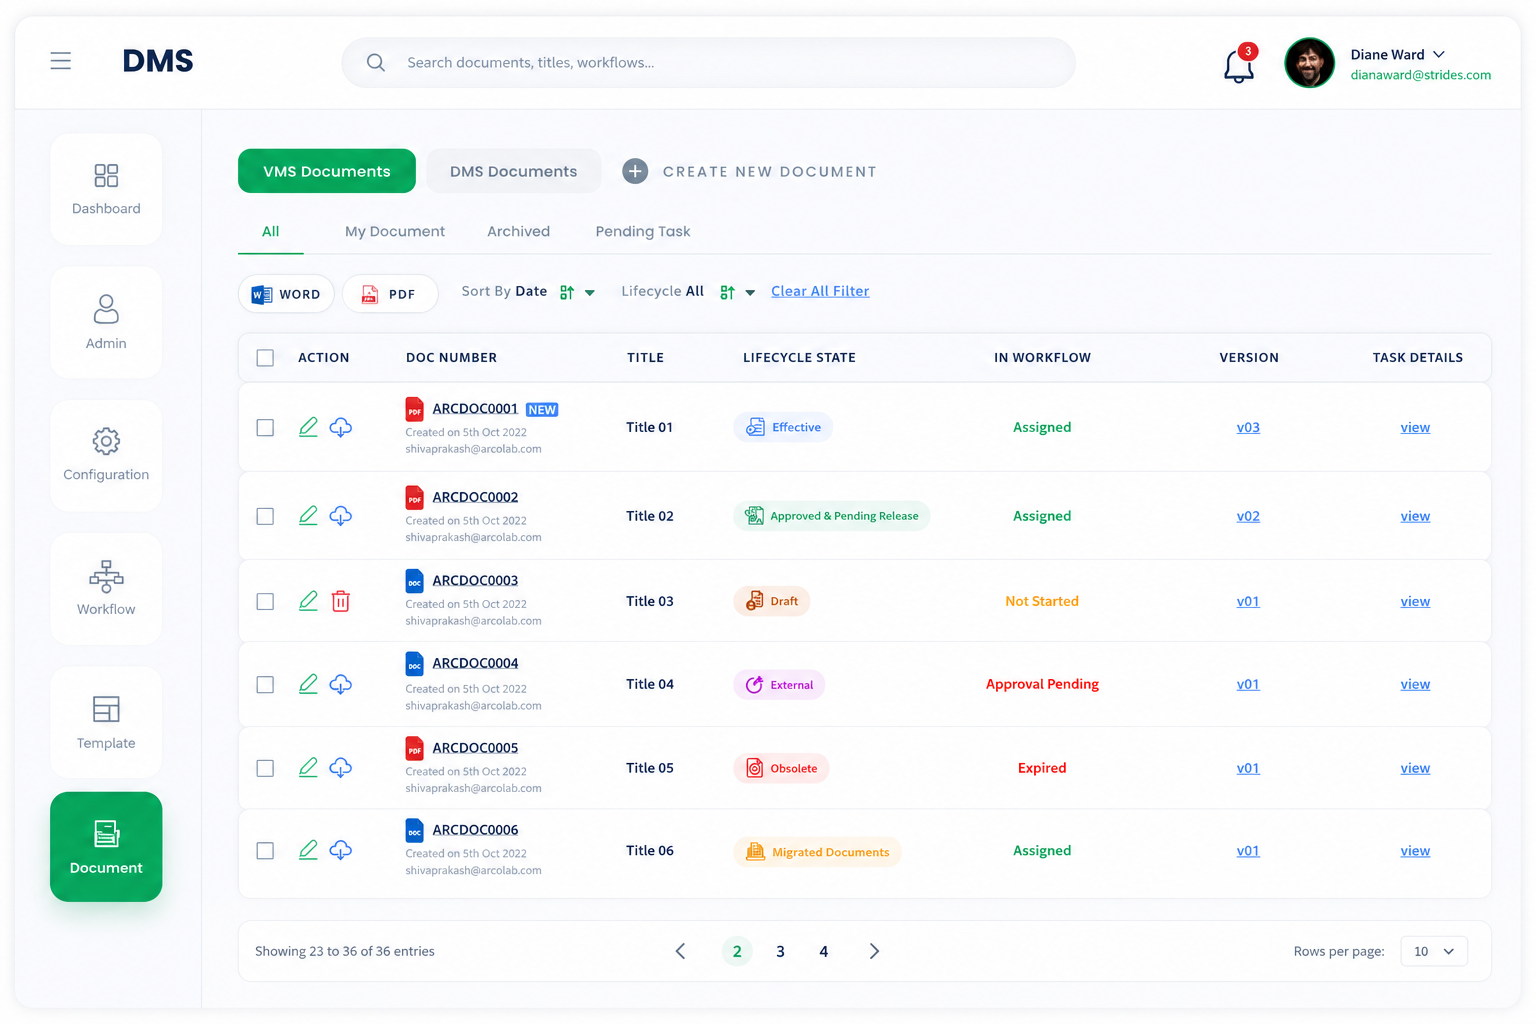
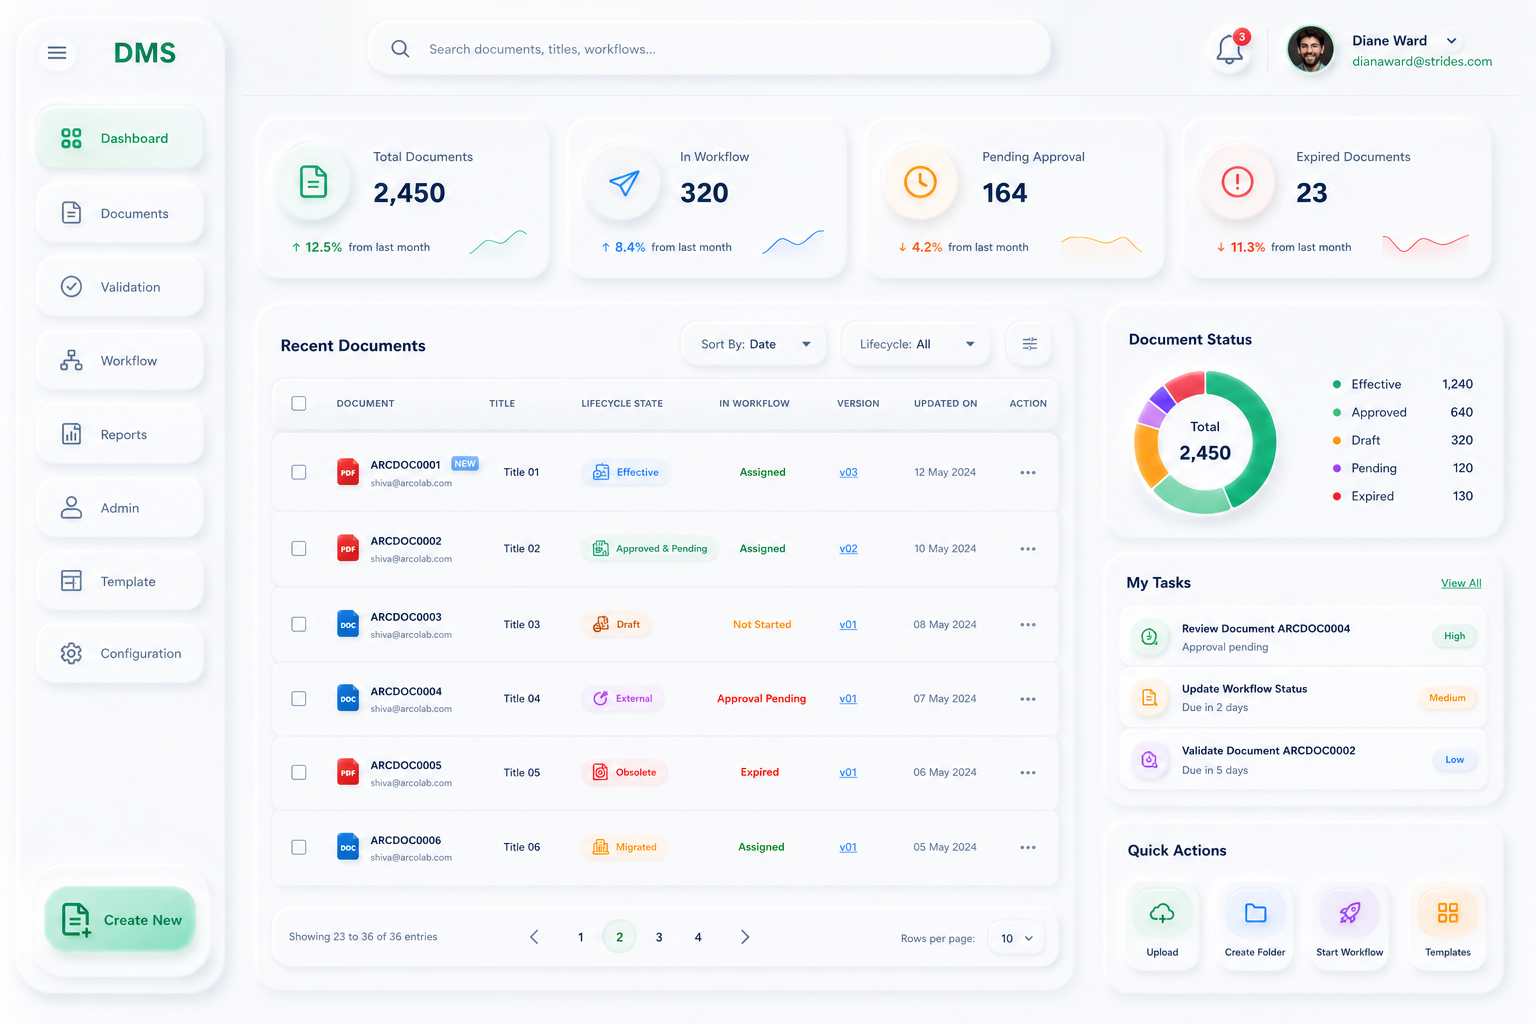
case-study-changes

diff --git a/src/lib/data.tsx b/src/lib/data.tsx
@@ -38,7 +38,7 @@ export const caseStudies: CaseStudy[] = [
     heroImage: "/images/dms-vms-login-main.png",
     previewImages: [
       "/images/dms-vms-login-main.png",
-      "/images/dms-document.png",
+      "/images/dms-documnet-ladnding-page.png",
       "/images/dms-work-flow.png",
     ],
     themeBg: "bg-gradient-to-br from-blue-700 via-blue-800 to-indigo-900",
@@ -150,74 +150,16 @@ export const caseStudies: CaseStudy[] = [
                 This diagram maps the conditional relationship between Document Management (DMS) and Validation Management (VMS) processes, showing how documents transition from draft state to verified execution.
               </p>
             </div>
-
-            {/* System Architecture Framework */}
-            <div className="my-10 overflow-hidden rounded-2xl border border-slate-200/80 bg-white shadow-[0_20px_50px_rgba(15,23,42,0.03)]">
-              <div className="flex items-center justify-between px-6 py-4 bg-slate-50 border-b border-slate-200/80">
-                <span className="text-[10px] font-bold uppercase tracking-[0.2em] text-slate-400">System Architecture Framework</span>
-                <span className="text-[10px] font-mono text-slate-400">dms-framework.png</span>
-              </div>
-              <div className="p-6 bg-slate-50/50">
-                <ZoomableImage src="/images/dms-framework.png" alt="DMS System Architecture Framework" className="w-full h-auto rounded-xl border border-slate-200/40 shadow-sm" />
-              </div>
-              <p className="px-6 py-4 border-t border-slate-100 text-sm text-slate-500 leading-relaxed bg-white">
-                This schematic maps the modular relationship between different enterprise modules, database tables, configuration engines, and access roles that structure the DMS and VMS platform.
-              </p>
-            </div>
-
-            {/* Validation Decision Tree */}
-            <div className="my-10 overflow-hidden rounded-2xl border border-slate-200/80 bg-white shadow-[0_20px_50px_rgba(15,23,42,0.03)]">
-              <div className="flex items-center justify-between px-6 py-4 bg-slate-50 border-b border-slate-200/80">
-                <span className="text-[10px] font-bold uppercase tracking-[0.2em] text-slate-400">Validation Decision Tree</span>
-                <span className="text-[10px] font-mono text-slate-400">dms-decision-tree.png</span>
-              </div>
-              <div className="p-6 bg-slate-50/50">
-                <ZoomableImage src="/images/dms-decision-tree.png" alt="DMS Validation Decision Tree" className="w-full h-auto rounded-xl border border-slate-200/40 shadow-sm" />
-              </div>
-              <p className="px-6 py-4 border-t border-slate-100 text-sm text-slate-500 leading-relaxed bg-white">
-                The validation decision tree models structural routing criteria, compliance gates, and document state changes to automate workflow progression across varying product risks.
-              </p>
-            </div>
-
             {/* Document Landing Page & Dashboard */}
             <div className="my-10 overflow-hidden rounded-2xl border border-slate-200/80 bg-white shadow-[0_20px_50px_rgba(15,23,42,0.06)]">
               <div className="flex items-center justify-between px-6 py-4 bg-slate-50 border-b border-slate-200/80">
                 <span className="text-[10px] font-bold uppercase tracking-[0.2em] text-slate-400">Document Landing Page & Dashboard</span>
-                <span className="text-[10px] font-mono text-slate-400">dms-documnet-ladnding-page.png</span>
               </div>
               <div className="p-6 bg-slate-50/50">
                 <ZoomableImage src="/images/dms-documnet-ladnding-page.png" alt="DMS Document Landing Page Mockup" className="w-full h-auto rounded-xl border border-slate-200/40 shadow-sm" />
               </div>
               <p className="px-6 py-4 border-t border-slate-100 text-sm text-slate-500 leading-relaxed bg-white">
                 The centralized Document Landing Page UI functions as a customizable dashboard, highlighting active validation tasks, draft status notifications, and global folder pathways.
-              </p>
-            </div>
-
-            {/* Document Detail View */}
-            <div className="my-10 overflow-hidden rounded-2xl border border-slate-200/80 bg-white shadow-[0_20px_50px_rgba(15,23,42,0.06)]">
-              <div className="flex items-center justify-between px-6 py-4 bg-slate-50 border-b border-slate-200/80">
-                <span className="text-[10px] font-bold uppercase tracking-[0.2em] text-slate-400">Document Detail View</span>
-                <span className="text-[10px] font-mono text-slate-400">dms-document.png</span>
-              </div>
-              <div className="p-6 bg-slate-50/50">
-                <ZoomableImage src="/images/dms-document.png" alt="DMS Document View Mockup" className="w-full h-auto rounded-xl border border-slate-200/40 shadow-sm" />
-              </div>
-              <p className="px-6 py-4 border-t border-slate-100 text-sm text-slate-500 leading-relaxed bg-white">
-                The document details page displays comprehensive metadata details, active revision states, linked validation runs, and compliance-mandated audit logs in a single pane.
-              </p>
-            </div>
-
-            {/* Validation & Lifecycle Workflow */}
-            <div className="my-10 overflow-hidden rounded-2xl border border-slate-200/80 bg-white shadow-[0_20px_50px_rgba(15,23,42,0.06)]">
-              <div className="flex items-center justify-between px-6 py-4 bg-slate-50 border-b border-slate-200/80">
-                <span className="text-[10px] font-bold uppercase tracking-[0.2em] text-slate-400">Validation & Lifecycle Workflow</span>
-                <span className="text-[10px] font-mono text-slate-400">dms-work-flow.png</span>
-              </div>
-              <div className="p-6 bg-slate-50/50">
-                <ZoomableImage src="/images/dms-work-flow.png" alt="DMS Workflow View Mockup" className="w-full h-auto rounded-xl border border-slate-200/40 shadow-sm" />
-              </div>
-              <p className="px-6 py-4 border-t border-slate-100 text-sm text-slate-500 leading-relaxed bg-white">
-                This view tracks live validation milestones, signature progress logs, and reviewer tasks, validating that the document lifecycle adheres strictly to FDA standards.
               </p>
             </div>
           </div>
@@ -237,17 +179,6 @@ export const caseStudies: CaseStudy[] = [
             <div className="border-l-4 border-electric-blue pl-6">
               <h3 className="text-xl font-bold text-slate-900 mb-3">Modular License-Based Experience</h3>
               <p className="text-slate-600 leading-relaxed text-base">The platform dynamically adapts based on enabled modules. If an organization licenses only the Document Management System (DMS), executable validation workflows remain hidden. If both DMS and VMS are enabled, executable document workflows become available automatically.</p>
-            </div>
-
-            {/* Showcase Screen - Browser Mockup */}
-            <div className="my-10 overflow-hidden rounded-2xl border border-slate-200/80 bg-white shadow-[0_25px_55px_-10px_rgba(15,23,42,0.06)]">
-              <div className="flex items-center gap-1.5 px-4 py-3 bg-slate-50 border-b border-slate-200/80">
-                <span className="w-2 h-2 rounded-full bg-slate-300"></span>
-                <span className="w-2 h-2 rounded-full bg-slate-300"></span>
-                <span className="w-2 h-2 rounded-full bg-slate-300"></span>
-                <span className="ml-4 text-[10px] font-mono text-slate-400">dms-task-screen.png</span>
-              </div>
-              <ZoomableImage src="/images/dms-task-screen.png" alt="DMS Task Screen Mockup" className="w-full h-auto" />
             </div>
 
             <div className="border-l-4 border-slate-200/80 pl-6">

diff --git a/src/components/ui/Collage.tsx b/src/components/ui/Collage.tsx
@@ -25,12 +25,12 @@ function BrowserCard({ src, alt, className, rotateVal, initialX, initialY, zInde
       initial={{ opacity: 0, x: initialX, y: initialY, rotate: rotateVal }}
       animate={{ opacity: 1, x: 0, y: 0, rotate: rotateVal }}
       transition={{ duration: 0.9, ease: [0.16, 1, 0.3, 1] }}
-      whileHover={{ 
-        scale: 1.05, 
+      whileHover={{
+        scale: 1.05,
         rotate: 0,
         y: -15,
         boxShadow: "-15px 25px 55px rgba(0,0,0,0.6)",
-        zIndex: 50 
+        zIndex: 50
       }}
       className={`absolute bg-slate-900 rounded-2xl border border-white/10 overflow-hidden shadow-[-10px_15px_40px_rgba(0,0,0,0.45)] flex flex-col group/card cursor-pointer transition-shadow duration-300 ${className}`}
       style={{ zIndex }}
@@ -44,7 +44,7 @@ function BrowserCard({ src, alt, className, rotateVal, initialX, initialY, zInde
           dashboard.view
         </div>
       </div>
-      
+
       {/* Body Viewport */}
       <div className="relative flex-1 bg-slate-950 overflow-hidden w-full h-full">
         {/* Click to Zoom Banner */}
@@ -52,10 +52,10 @@ function BrowserCard({ src, alt, className, rotateVal, initialX, initialY, zInde
           <Maximize2 className="w-2.5 h-2.5 text-blue-400" />
           Zoom
         </div>
-        <ZoomableImage 
-          src={src} 
-          alt={alt} 
-          className="w-full h-full [&_img]:h-full [&_img]:w-full [&_img]:object-cover" 
+        <ZoomableImage
+          src={src}
+          alt={alt}
+          className="w-full h-full [&_img]:h-full [&_img]:w-full [&_img]:object-cover"
         />
       </div>
     </motion.div>
@@ -72,7 +72,7 @@ export function Collage({ images, title }: CollageProps) {
         <BrowserCard
           src={images[0]}
           alt={`${title} UI screen 1`}
-          className="top-[-5%] left-[-15%] w-[68%] aspect-[16/10]"
+          className="top-[-5%] left-[-11%] w-[100%] aspect-[16/10]"
           rotateVal={-18}
           initialX={-60}
           initialY={-30}
@@ -85,24 +85,11 @@ export function Collage({ images, title }: CollageProps) {
         <BrowserCard
           src={images[1]}
           alt={`${title} UI screen 2`}
-          className="top-[18%] right-[-20%] w-[68%] aspect-[16/10]"
+          className="top-[38%] right-[-20%] w-[100%] aspect-[16/10]"
           rotateVal={-18}
           initialX={60}
           initialY={20}
           zIndex={5}
-        />
-      )}
-
-      {/* Card 3: Bottom-Center/Left (Lower Left Position - Focal Foreground) */}
-      {images[2] && (
-        <BrowserCard
-          src={images[2]}
-          alt={`${title} UI screen 3`}
-          className="bottom-[-5%] left-[5%] w-[75%] aspect-[16/10]"
-          rotateVal={-18}
-          initialX={-30}
-          initialY={60}
-          zIndex={20}
         />
       )}
     </div>

diff --git a/src/components/sections/DesignSystemSection.tsx b/src/components/sections/DesignSystemSection.tsx
@@ -146,7 +146,7 @@ export function DesignSystemSection() {
   };
 
   return (
-    <section className="mt-24 pt-16 pb-12 bg-[#EEF2F6] text-slate-700 rounded-[40px] px-6 md:px-10 shadow-[inset_6px_6px_16px_rgba(163,177,198,0.35),inset_-6px_-6px_16px_#ffffff] border border-white/50 overflow-hidden relative">
+    <section className="mt-24 text-slate-700 rounded-[40px] px-6 md:px-10 overflow-hidden relative">
 
       {/* Toast Notification for Clipboard Copy */}
       <AnimatePresence>
@@ -155,7 +155,7 @@ export function DesignSystemSection() {
             initial={{ opacity: 0, y: 50, scale: 0.9 }}
             animate={{ opacity: 1, y: 0, scale: 1 }}
             exit={{ opacity: 0, y: 20, scale: 0.9 }}
-            className="fixed bottom-8 right-8 z-50 flex items-center gap-2 bg-[#EEF2F6] text-slate-800 px-5 py-3 rounded-2xl shadow-[6px_6px_15px_#c8d0e7,-6px_-6px_15px_#ffffff] border border-white/60 text-xs font-bold"
+            className="fixed bottom-8 right-8 z-50 flex items-center gap-2 text-xs font-bold"
           >
             <Check className="w-4 h-4 text-emerald-500 stroke-[3]" />
             <span>Copied {copiedText} to clipboard!</span>
@@ -170,7 +170,7 @@ export function DesignSystemSection() {
             Soft UI Framework
           </span>
           <h2 className="mt-4 text-3xl md:text-4xl font-extrabold tracking-tight text-slate-800">
-            Neumorphic Design System
+            Design System
           </h2>
           <p className="text-slate-500 font-semibold text-xs mt-1.5">
             For React MUI Application &bull; Primary Color: <span className="font-bold text-[#02A74B]">#02A74B</span> &bull; Font Family: <span className="font-bold text-slate-700">Inter</span>

diff --git a/src/app/case-study/[id]/page.tsx b/src/app/case-study/[id]/page.tsx
@@ -30,7 +30,7 @@ export default async function CaseStudyPage({ params }: { params: Promise<{ id: 
     <main className="min-h-screen bg-slate-50 text-slate-900 selection:bg-electric-blue selection:text-white">
       {/* Top Interactive Scroll Progress Indicator */}
       <ScrollProgress />
-      
+
       {/* Full-width Vibrant Hero Header */}
       <header className={`w-full ${study.themeBg} text-white pt-32 pb-20 md:pt-40 md:pb-28 rounded-b-[40px] md:rounded-b-[60px] shadow-[0_20px_50px_rgba(0,0,0,0.05)] relative overflow-hidden`}>
         {/* Background glow visual elements */}
